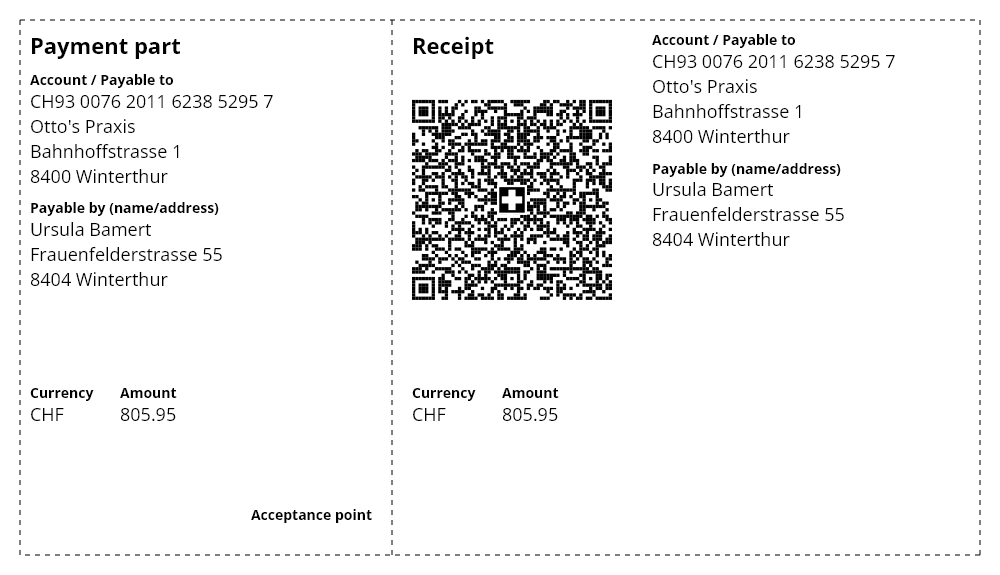
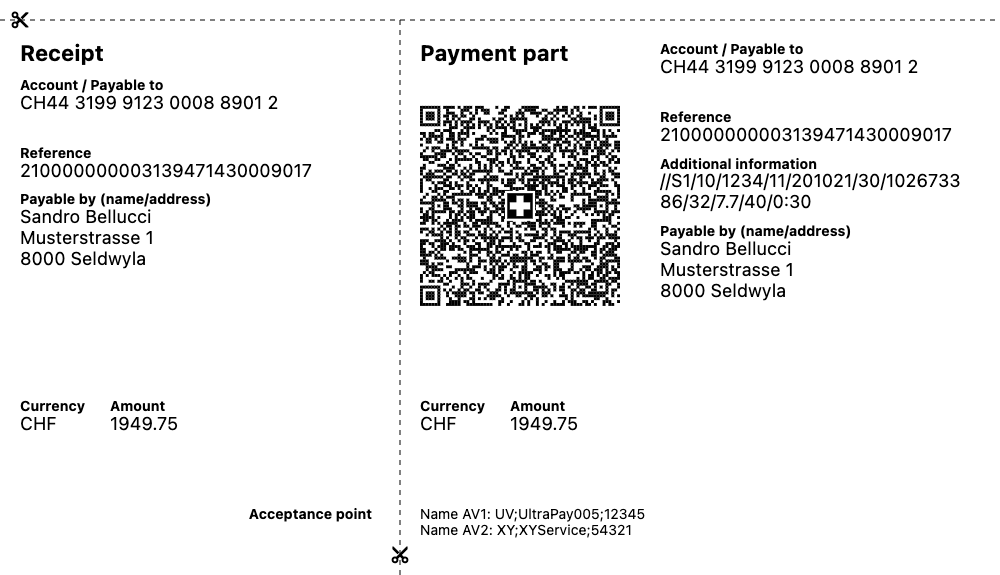
Expose complete argument and add scissors

diff --git a/lib/bill_generator.dart b/lib/bill_generator.dart
@@ -48,24 +48,35 @@ class BillGenerator {
 
   BillGenerator({this.language = english});
 
-  Future<Uint8List?> getBinary(QRBill qrBill) async {
+  /// Outputs the binary data of a single Swiss QR bill payment slip, in a PNG format.
+  ///
+  /// `qrBill` is the QRBill object to be converted into a PNG image.
+  /// `complete` is a boolean value that determines whether the QR bill should be surrounded by a dashed border or not.
+  Future<Uint8List?> getBinary(QRBill qrBill, {bool complete = false}) async {
     ui.PictureRecorder recorder = ui.PictureRecorder();
     Canvas c = Canvas(recorder);
 
-    const l = _margin;
-    const t = _margin;
-    const w = _width - _margin;
-    const h = _height - _margin;
+    var l = _margin;
+    var t = _margin;
+    var w = _width - _margin;
+    var h = _height - _margin;
+
+    if (!complete) {
+      l = .0;
+      t = _margin;
+      w = _width;
+      h = _height;
+    }
 
     // Draws white background
     c.drawColor(Colors.white, BlendMode.src);
 
     // Draws dashed border
-    _drawBorders(c, t, l, w, h);
+    _drawBorders(c, t, l, w, h, complete);
 
     // Draws Left Panel
     Offset bLeft = _drawText(c,
-        offset: const Offset(l + _majorGap, t + _majorGap),
+        offset: Offset(l + _majorGap * 2, t + _majorGap * 2),
         text: _getText("headingReceipt"),
         style: styleHeader,
         bottomPadding: _majorGap);
@@ -82,7 +93,7 @@ class BillGenerator {
         bottomPadding: 0.0);
 
     // Draws Right Panel
-    Offset bRight = const Offset((w * _panelRatio) + 20.0, t + _majorGap);
+    Offset bRight = Offset((w * _panelRatio) + 20.0, t + _majorGap * 2);
 
     Offset bRight2 = _drawBlocPaymentDetails(c,
         bRight + const Offset((_width * _qrRatio) + 40.0, 0.0), qrBill, true);
@@ -168,6 +179,27 @@ class BillGenerator {
       _drawDashedLine(c, Offset(l, h), Offset(l, t));
     }
     _drawDashedLine(c, Offset(w * _panelRatio, t), Offset(w * _panelRatio, h));
+
+    if (!complete) {
+      const icon = Icons.cut;
+      TextPainter textPainter = TextPainter(textDirection: TextDirection.ltr);
+      textPainter.text = TextSpan(
+        text: String.fromCharCode(icon.codePoint),
+        style: TextStyle(
+          fontSize: 20.0,
+          fontFamily: icon.fontFamily,
+          color: Colors.black,
+        ),
+      );
+      textPainter.layout();
+      textPainter.paint(c, const Offset(10.0, 10.0));
+
+      c.save();
+      c.translate(w * _panelRatio - 10, h - 10);
+      c.rotate(-pi / 2);
+      textPainter.paint(c, const Offset(0.0, 0.0));
+      c.restore();
+    }
   }
 
   String _formatIBAN(String? raw) {

diff --git a/README.md b/README.md
@@ -79,7 +79,7 @@ Future<File?> getInvoicesBinary(
 ### BillGenerator
 
 * `BillGenerator BillGenerator({BillGenerator language = BillGenerator.english})` Basic constructor. Also sets the language to be employed.
-* `Future<Uint8List?> getBinary(QRBill qrBill)` Outputs the binary data of a single Swiss QR bill payment slip, in a PNG format.
+* `Future<Uint8List?> getBinary(QRBill qrBill {bool complete = false})` Outputs the binary data of a single Swiss QR bill payment slip, in a PNG format.
 * `Future<Widget?> getWidget(QRBill qrBill)` Generates and returns a Widget version of the Swiss QR bill payment slip for the supplied QRBill object.
 * `Future<List<Widget?>> getWidgets(List<QRBill> qrBills)` Generates and returns a list of Widgets for  the Swiss QR bill payment slips for inputted QRBill objec list.
 * `Future<Uint8List?> generateInvoices(List<QRBill> qrBills)` Outputs the binary data of supplied QRBills as Swiss QR bill payment slips, in a PDF format, one per page.

diff --git a/CHANGELOG.md b/CHANGELOG.md
@@ -1,3 +1,8 @@
+## 1.1.2
+* Exposed `complete` option in `getBinary` method to choose between fully surrounding dashed lines or simple T shaped line
+* Added scissors icon to dashed lines
+* Fixed receipt and payment part headers
+
 ## 1.1.1
 * Typo fixed (thx `cbenhagen`)
 
